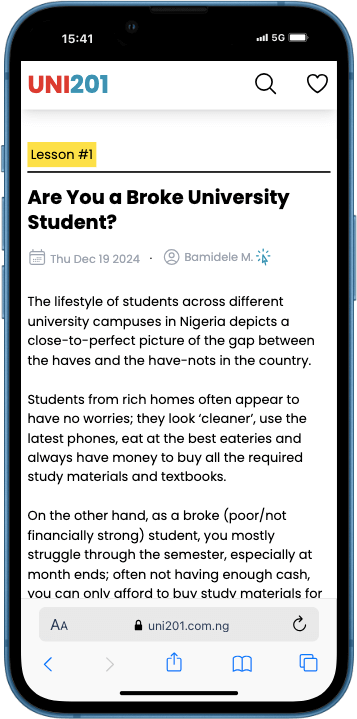
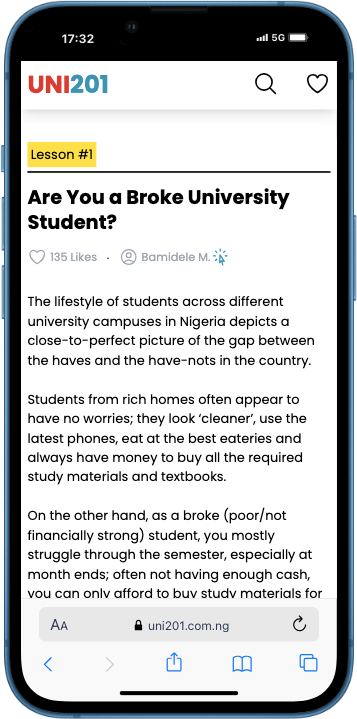
.

Changed region(s): [[0.0616, 0.3366, 0.7703, 0.3672], [0.1849, 0.0306, 0.2773, 0.0612]]

diff --git a/src/pages/Issue.jsx b/src/pages/Issue.jsx
@@ -338,8 +338,7 @@ function Issue() {
                             />
                           </svg>
                           <span class="mt-0.5">
-                            {likers.length}35 Likes{" "}
-                            {likers.length > 1 ? "s" : ""}
+                            {likers.length} Like {likers.length > 1 ? "s" : ""}
                           </span>
                         </div>
                         <span class="text-black">.</span>
